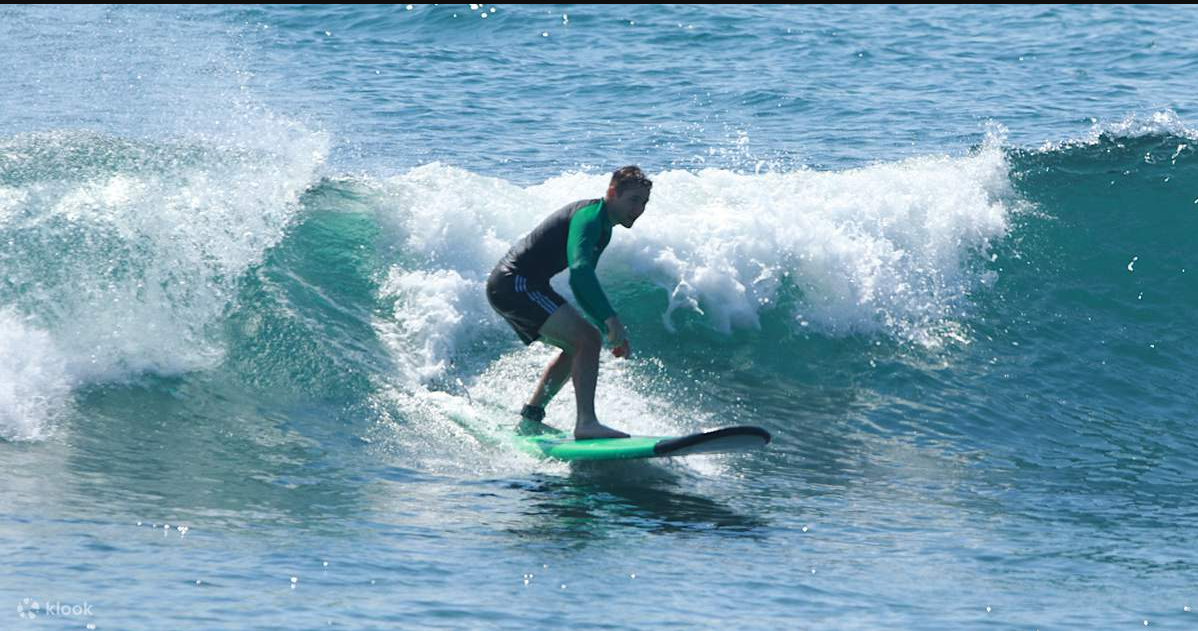
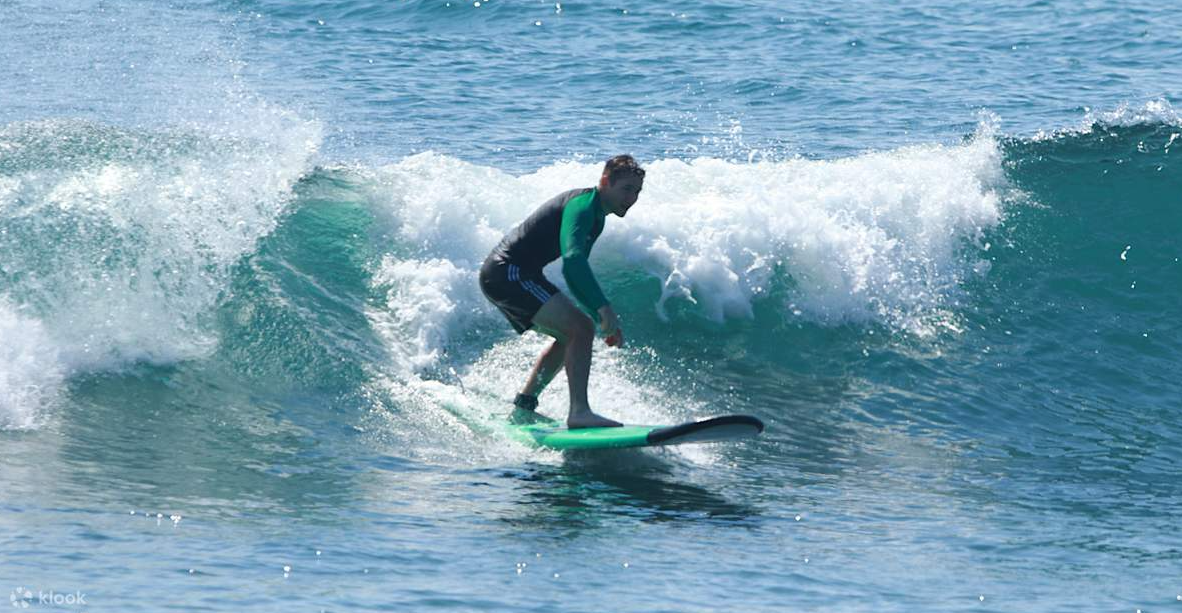
Add CTABanner component with WhatsApp integration and update styles

diff --git a/client/src/components/landing/about/sections/cta/CTABanner.module.css b/client/src/components/landing/about/sections/cta/CTABanner.module.css
@@ -2,7 +2,7 @@
 
 .banner {
   background: linear-gradient(135deg, #0284c7 0%, #38bdf8 100%);
-  padding: 4rem 2rem;
+  padding: 2.5rem 5% 0;
 }
 
 .content {
@@ -37,6 +37,32 @@
   line-height: 1.5;
 }
 
+/* ── WhatsApp icon shared ── */
+.waIcon {
+  width: 18px;
+  height: 18px;
+  flex-shrink: 0;
+}
+
+/* ── WhatsApp link — top CTA area ── */
+.waLinkTop {
+  display: inline-flex;
+  align-items: center;
+  gap: 7px;
+  margin-top: 0.6rem;
+  font-size: 0.9rem;
+  font-weight: 600;
+  color: #ffffff;
+  text-decoration: none;
+  opacity: 0.92;
+  transition: opacity 0.2s ease;
+}
+
+.waLinkTop:hover {
+  opacity: 1;
+  text-decoration: underline;
+}
+
 .button {
   display: inline-block;
   flex-shrink: 0;
@@ -63,6 +89,44 @@
   transform: translateY(-2px);
 }
 
+/* ── Bottom Bar ─────────────────────────────────────── */
+
+.bottomBar {
+  border-top: 1px solid rgba(255, 255, 255, 0.3);
+  margin-top: 2rem;
+  padding: 14px 0;
+  display: flex;
+  align-items: center;
+  justify-content: space-between;
+  flex-wrap: wrap;
+  gap: 10px;
+}
+
+.copy {
+  font-size: 0.825rem;
+  color: rgba(255, 255, 255, 0.85);
+}
+
+.links {
+  display: flex;
+  gap: 20px;
+}
+
+.link {
+  display: inline-flex;
+  align-items: center;
+  gap: 6px;
+  font-size: 0.825rem;
+  color: rgba(255, 255, 255, 0.85);
+  text-decoration: none;
+  transition: opacity 0.2s ease;
+}
+
+.link:hover {
+  opacity: 0.7;
+  text-decoration: underline;
+}
+
 @media (max-width: 640px) {
   .content {
     flex-direction: column;
@@ -73,6 +137,12 @@
   .button {
     width: 100%;
     max-width: 280px;
+    text-align: center;
+  }
+
+  .bottomBar {
+    flex-direction: column;
+    align-items: center;
     text-align: center;
   }
 }

diff --git a/client/src/components/landing/about/sections/cta/CTABanner.jsx b/client/src/components/landing/about/sections/cta/CTABanner.jsx
@@ -1,21 +1,64 @@
 import { Link } from "react-router-dom";
 import styles from "./CTABanner.module.css";
 
+const WhatsAppIcon = () => (
+  <svg
+    xmlns="http://www.w3.org/2000/svg"
+    viewBox="0 0 24 24"
+    fill="currentColor"
+    className={styles.waIcon}
+    aria-hidden="true"
+  >
+    <path d="M17.472 14.382c-.297-.149-1.758-.867-2.03-.967-.273-.099-.471-.148-.67.15-.197.297-.767.966-.94 1.164-.173.199-.347.223-.644.075-.297-.15-1.255-.463-2.39-1.475-.883-.788-1.48-1.761-1.653-2.059-.173-.297-.018-.458.13-.606.134-.133.298-.347.446-.52.149-.174.198-.298.298-.497.099-.198.05-.371-.025-.52-.075-.149-.669-1.612-.916-2.207-.242-.579-.487-.5-.669-.51-.173-.008-.371-.01-.57-.01-.198 0-.52.074-.792.372-.272.297-1.04 1.016-1.04 2.479 0 1.462 1.065 2.875 1.213 3.074.149.198 2.096 3.2 5.077 4.487.709.306 1.262.489 1.694.625.712.227 1.36.195 1.871.118.571-.085 1.758-.719 2.006-1.413.248-.694.248-1.289.173-1.413-.074-.124-.272-.198-.57-.347m-5.421 7.403h-.004a9.87 9.87 0 01-5.031-1.378l-.361-.214-3.741.982.998-3.648-.235-.374a9.86 9.86 0 01-1.51-5.26c.001-5.45 4.436-9.884 9.888-9.884 2.64 0 5.122 1.03 6.988 2.898a9.825 9.825 0 012.893 6.994c-.003 5.45-4.437 9.884-9.885 9.884m8.413-18.297A11.815 11.815 0 0012.05 0C5.495 0 .16 5.335.157 11.892c0 2.096.547 4.142 1.588 5.945L.057 24l6.305-1.654a11.882 11.882 0 005.683 1.448h.005c6.554 0 11.89-5.335 11.893-11.893a11.821 11.821 0 00-3.48-8.413z" />
+  </svg>
+);
+
 function CTABanner() {
   return (
-    <section className={styles.banner}>
+    <footer className={styles.banner}>
+      {/* ── CTA Row ── */}
       <div className={styles.content}>
         <div className={styles.text}>
           <h2 className={styles.title}>Ready to be part of the club?</h2>
           <p className={styles.subtitle}>
             Join us and experience the surf lifestyle.
           </p>
+          <a
+            href="https://wa.me/"
+            target="_blank"
+            rel="noopener noreferrer"
+            className={styles.waLinkTop}
+          >
+            <WhatsAppIcon />
+            Chat with us on WhatsApp
+          </a>
         </div>
         <Link to="/signup" className={styles.button}>
           Join the Club
         </Link>
       </div>
-    </section>
+
+      {/* ── Bottom Bar ── */}
+      <div className={styles.bottomBar}>
+        <span className={styles.copy}>
+          &copy; 2026 Blue Mars Surf Club. All rights reserved.
+        </span>
+        <div className={styles.links}>
+          <a
+            href="https://wa.me/"
+            target="_blank"
+            rel="noopener noreferrer"
+            className={styles.link}
+          >
+            <WhatsAppIcon />
+            Contact Manager
+          </a>
+          <a href="/privacy" className={styles.link}>
+            Privacy Policy
+          </a>
+        </div>
+      </div>
+    </footer>
   );
 }
 

diff --git a/client/src/components/landing/LandingPage.jsx b/client/src/components/landing/LandingPage.jsx
@@ -1,11 +1,13 @@
 import HeroSection from "./sections/hero/HeroSection";
 import CoursesGrid from "./sections/courses/CoursesGrid";
+import CTABanner from "./about/sections/cta/CTABanner";
 
 function LandingPage() {
   return (
     <>
       <HeroSection />
       <CoursesGrid />
+      <CTABanner />
     </>
   );
 }

diff --git a/client/src/components/auth/SignupForm.jsx b/client/src/components/auth/SignupForm.jsx
@@ -92,7 +92,6 @@ export default function SignupForm({ styles }) {
 
   const handleSignUpSubmit = async (event) => {
     event.preventDefault();
-    9;
     const result = validateSignUpForm();
     console.log(result);
 